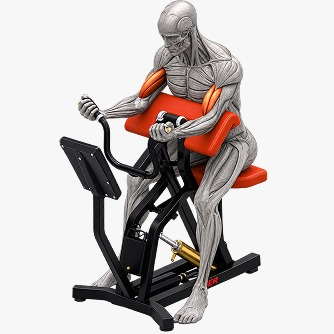
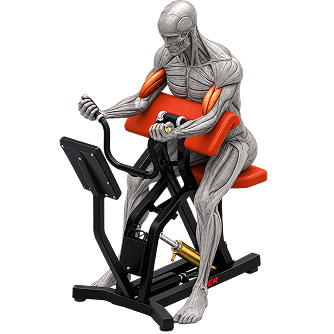
added page in workout folder

diff --git a/app/workout/[id]/page.jsx b/app/workout/[id]/page.jsx
@@ -1,0 +1,176 @@
+"use client";
+
+import { useEffect, useState, use } from "react";
+import { usePlan } from "../../context/PlanContext";
+import { Plus, Bookmark, Loader2 } from "lucide-react";
+
+export default function WorkoutDetailPage({ params: paramsPromise }) {
+  const params = use(paramsPromise);
+  const { id } = params;
+
+  const [workout, setWorkout] = useState(null);
+  const [loading, setLoading] = useState(true);
+  const { addToPlan, addToSaved } = usePlan();
+
+  useEffect(() => {
+    fetch(`https://api.abcz.workers.dev/api/fitlog/${id}`)
+      .then((res) => res.json())
+      .then((data) => {
+        setWorkout(data);
+        setLoading(false);
+      })
+      .catch((err) => {
+        console.error(err);
+        setLoading(false);
+      });
+  }, [id]);
+
+  if (loading) {
+    return (
+      <div className="min-h-[60vh] flex items-center justify-center text-zinc-500 gap-2 text-sm">
+        <Loader2 className="w-5 h-5 animate-spin text-[#ccff00]" />
+        <span>Loading workout details...</span>
+      </div>
+    );
+  }
+
+  if (!workout)
+    return (
+      <div className="text-center py-20 text-zinc-400">Workout not found.</div>
+    );
+
+  return (
+    <div className="max-w-7xl mx-auto px-4 sm:px-6 lg:px-8 py-12">
+      <div className="grid grid-cols-1 lg:grid-cols-2 gap-10">
+        {/* Left: Illustration */}
+        <div className="bg-[#121318] border border-[#1e2029] rounded-2xl overflow-hidden h-[380px] lg:h-[520px]">
+          <img
+            src={
+              workout.image ||
+              workout.illustration ||
+              "https://via.placeholder.com/600"
+            }
+            alt={workout.name}
+            className="w-full h-full object-cover"
+          />
+        </div>
+
+        {/* Right: Content */}
+        <div>
+          <h1 className="text-3xl sm:text-4xl font-display font-extrabold uppercase text-white mb-2">
+            {workout.name}
+          </h1>
+
+          <p className="text-zinc-400 text-xs sm:text-sm leading-relaxed mb-4">
+            {workout.description ||
+              "A compound movement designed for maximum muscle engagement and strength."}
+          </p>
+
+          <div className="flex flex-wrap gap-2 mb-6">
+            {workout.category?.map((cat, idx) => (
+              <span
+                key={idx}
+                className="text-xs uppercase font-bold px-3 py-1 bg-[#ccff00] text-black rounded-full"
+              >
+                {cat}
+              </span>
+            ))}
+          </div>
+
+          {/* Key Specs Table */}
+          <div className="bg-[#121318] border border-[#1e2029] rounded-xl p-4 mb-6 divide-y divide-[#181920] text-xs">
+            <div className="flex justify-between py-2">
+              <span className="text-zinc-500 font-semibold uppercase">
+                EQUIPMENT
+              </span>
+              <span className="text-zinc-200">
+                {Array.isArray(workout.equipment)
+                  ? workout.equipment.join(", ")
+                  : workout.equipment}
+              </span>
+            </div>
+            <div className="flex justify-between py-2">
+              <span className="text-zinc-500 font-semibold uppercase">
+                DIFFICULTY
+              </span>
+              <span className="text-zinc-200">
+                {workout.difficulty || "Intermediate"}
+              </span>
+            </div>
+            <div className="flex justify-between py-2">
+              <span className="text-zinc-500 font-semibold uppercase">
+                SETS
+              </span>
+              <span className="text-zinc-200">{workout.sets || 4}</span>
+            </div>
+            <div className="flex justify-between py-2">
+              <span className="text-zinc-500 font-semibold uppercase">
+                REPS
+              </span>
+              <span className="text-zinc-200">{workout.reps || "6-8"}</span>
+            </div>
+            <div className="flex justify-between py-2">
+              <span className="text-zinc-500 font-semibold uppercase">
+                DURATION
+              </span>
+              <span className="text-zinc-200">{workout.duration} min</span>
+            </div>
+            <div className="flex justify-between py-2">
+              <span className="text-zinc-500 font-semibold uppercase">
+                CALORIES
+              </span>
+              <span className="text-zinc-200">{workout.calories} kcal</span>
+            </div>
+            <div className="flex justify-between py-2">
+              <span className="text-zinc-500 font-semibold uppercase">
+                RATING
+              </span>
+              <span className="text-zinc-200">{workout.rating}</span>
+            </div>
+          </div>
+
+          {/* Instructions */}
+          <div className="mb-8">
+            <h3 className="font-display font-bold uppercase text-sm text-white mb-3">
+              INSTRUCTIONS
+            </h3>
+            <ol className="space-y-2 text-xs text-zinc-400">
+              {(
+                workout.instructions || [
+                  "Lie on the bench with eyes under the bar and feet planted.",
+                  "Unrack with locked elbows and lower the bar to mid-chest.",
+                  "Press up in a slight arc until elbows lock without bouncing.",
+                  "Keep shoulder blades pinched and a natural arch in the back.",
+                ]
+              ).map((step, idx) => (
+                <li key={idx} className="flex gap-2">
+                  <span className="text-[#ccff00] font-bold">{idx + 1}.</span>
+                  <span>{step}</span>
+                </li>
+              ))}
+            </ol>
+          </div>
+
+          {/* Actions */}
+          <div className="flex flex-col sm:flex-row gap-3">
+            <button
+              onClick={() => addToPlan(workout)}
+              className="flex-1 flex items-center justify-center gap-2 bg-[#ccff00] text-black font-bold text-xs uppercase px-5 py-3 rounded-lg hover:bg-lime-400 transition"
+            >
+              <Plus className="w-4 h-4" />
+              <span>Add to todays plan</span>
+            </button>
+
+            <button
+              onClick={() => addToSaved(workout)}
+              className="flex-1 flex items-center justify-center gap-2 bg-[#121318] border border-[#1e2029] text-zinc-300 font-semibold text-xs uppercase px-5 py-3 rounded-lg hover:bg-[#181920] transition"
+            >
+              <Bookmark className="w-4 h-4" />
+              <span>Save for later</span>
+            </button>
+          </div>
+        </div>
+      </div>
+    </div>
+  );
+}

diff --git a/app/components/Navbar.jsx b/app/components/Navbar.jsx
@@ -15,7 +15,7 @@ export default function Navbar() {
         {/* Left: Logo */}
         <Link
           href="/"
-          className="flex items-center gap-2 font-display font-bold text-xl tracking-wider text-white"
+          className="flex items-center gap-2 font-display font-bold text-xl tracking-wider "
         >
           {/* Modern Next.js img tag ba regular img tag */}
           <img
